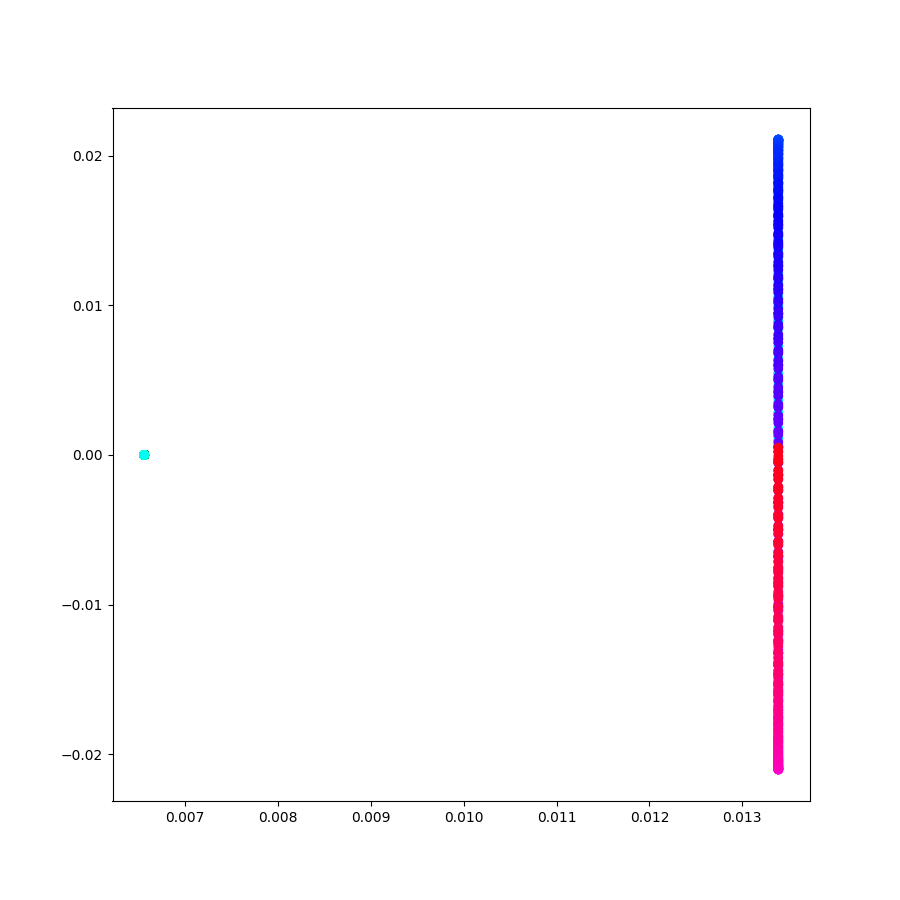
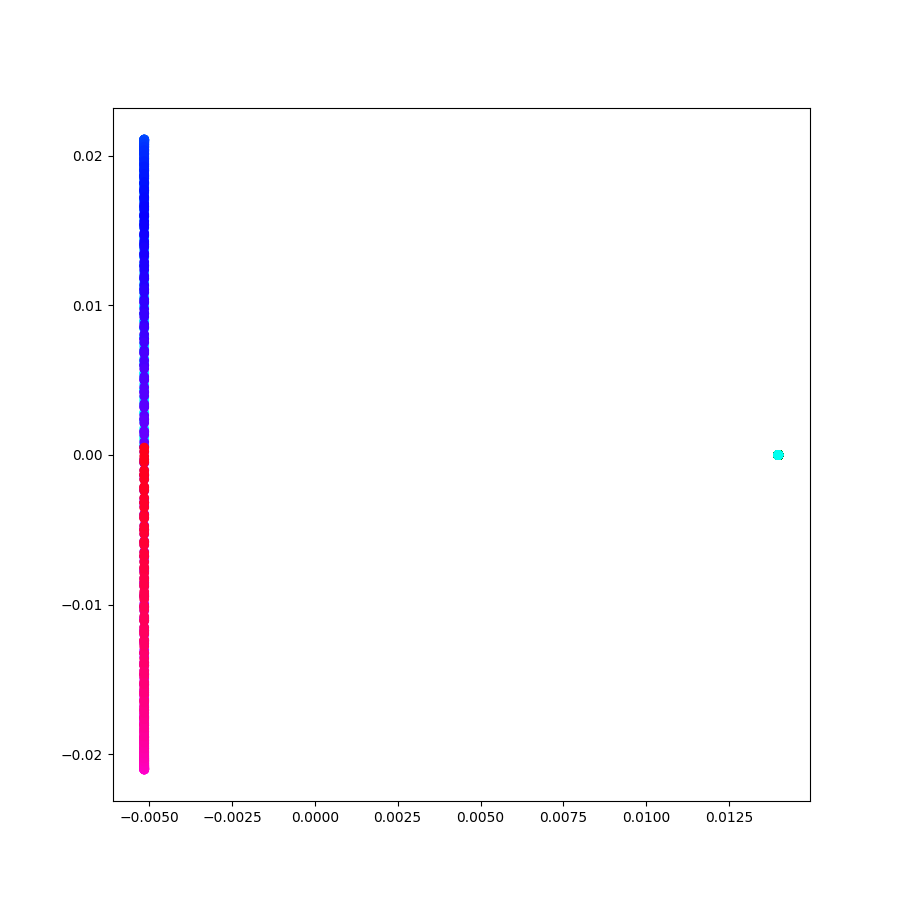
hooph絡み目を追加

diff --git a/src/knot/hooph.py b/src/knot/hooph.py
@@ -1,0 +1,27 @@
+import numpy as np
+
+from src.knot.core import Sampler
+
+class HoophSampler(Sampler):
+    def __init__(self, sample_size):
+        self.sample_size = sample_size
+
+    def sample(self):
+        t = np.linspace(0, 2*np.pi, int(self.sample_size/3))
+
+        x0 = np.cos(t)
+        y0 = np.sin(t)
+        z0 = np.zeros_like(t)
+
+        x1 = np.zeros_like(t)
+        y1 = np.cos(t) + 1.5
+        z1 = np.sin(t)
+
+        x2 = np.cos(t)
+        y2 = np.sin(t) + 3.0
+        z2 = np.zeros_like(t)
+
+        x = np.concatenate((x0, x1, x2))
+        y = np.concatenate((y0, y1, y2))
+        z = np.concatenate((z0, z1, z2))
+        return x, y, z

diff --git a/src/config.py b/src/config.py
@@ -2,8 +2,9 @@ from dataclasses import dataclass
 
 from src.knot.core import Sampler
 from src.knot.trefoil import TrefoilSampler
-from src.knot.hoph import HophSampler
 from src.knot.eight import EightSampler
+from src.knot.hoph import HophSampler
+from src.knot.hooph import HoophSampler
 
 @dataclass
 class BaseKnot:
@@ -41,4 +42,13 @@ HOPH = BaseKnot(
     sampler_class=HophSampler
 )
 
-KNOTS = [TREFOIL, EIGHT, HOPH]
+HOOPH = BaseKnot(
+    knot_kind="hooph",
+    sample_size=999,
+    n_neighbors=10,
+    elev=45,
+    azim=0,
+    sampler_class=HoophSampler
+)
+
+KNOTS = [TREFOIL, EIGHT, HOPH, HOOPH]
